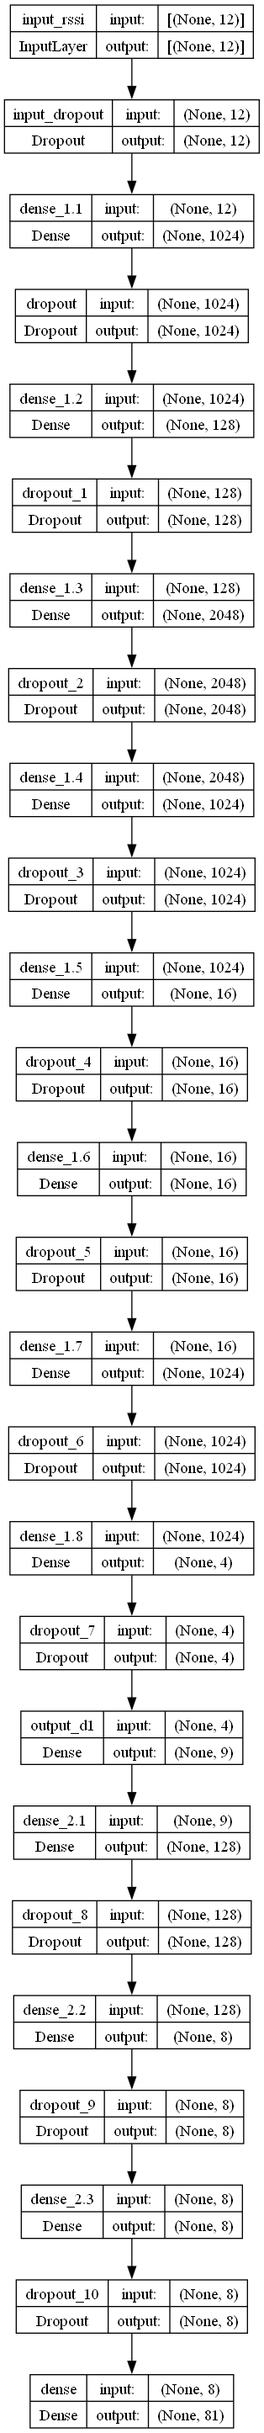
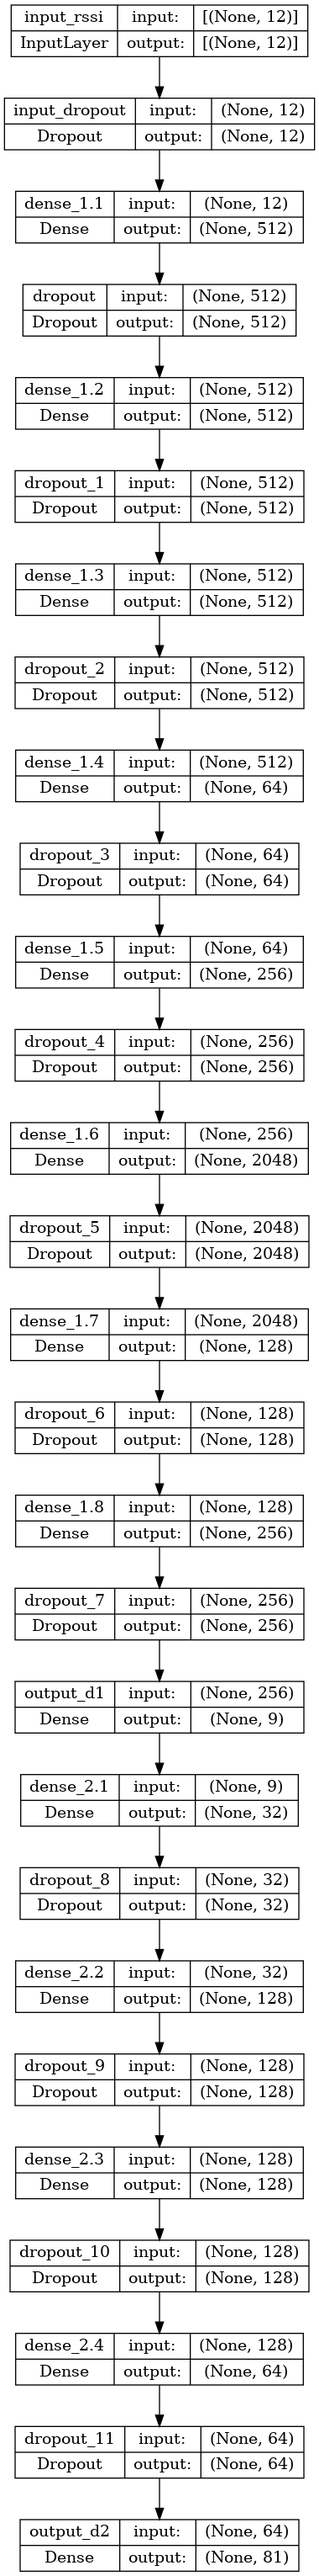
Ajustes en el diseño de M8

Changed region(s): [[0.0, 0.0, 1.0, 1.0]]

diff --git a/lib/models/trainers/M8Trainer.py b/lib/models/trainers/M8Trainer.py
@@ -61,7 +61,7 @@ class M8Trainer(BaseTrainer):
                 learning_rate = learning_rate=hp.Float('learning_rate', min_value=0.00001, max_value=0.1, step=10, sampling="log")
 
             else:
-                d1units = [1024, 128, 2048, 1024, 16, 16, 1024, 4]
+                d1units = [512, 512, 512, 64, 256, 2048, 128, 256]
                 for i in range(len(d1units)):
                     dimension1.append(
                         {
@@ -69,15 +69,15 @@ class M8Trainer(BaseTrainer):
                             'dropout': hp.Float('dropout_dimension1_'+str(i), min_value=0.0, max_value=0.5, step=0.1)
                         })
                 
-                d2units = [128, 8, 8]
+                d2units = [32, 128, 128, 64]
                 for i in range(len(d2units)):
                     dimension2.append(
                         {
                             'units': d2units[i], 
                             'dropout': hp.Float('dropout_dimension2_'+str(i), min_value=0.0, max_value=0.5, step=0.1)
                         })
-                loss_weight_d1 = 0.5
-                learning_rate = 0.01            
+                loss_weight_d1 = 0.2
+                learning_rate = 0.0001            
 
             loss_weight_d2 = 1 - loss_weight_d1
             
